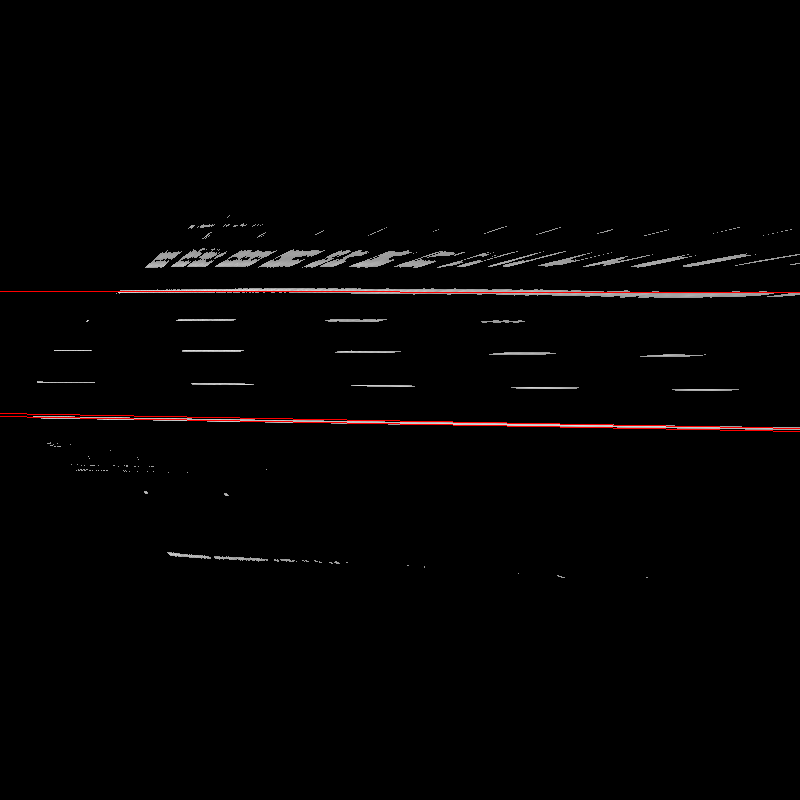
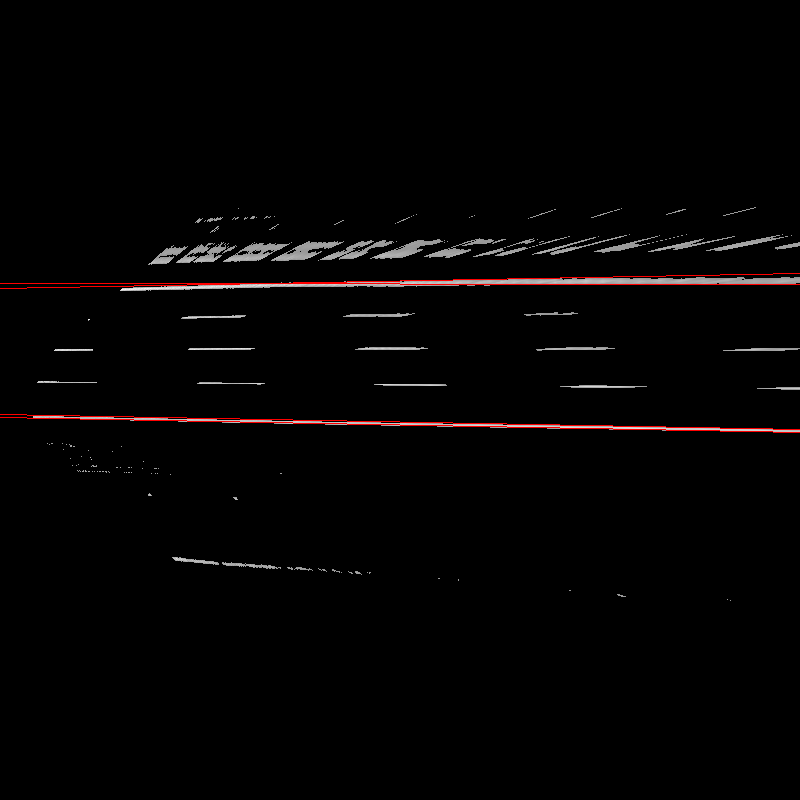
scalable window

diff --git a/ipm.py b/ipm.py
@@ -90,10 +90,18 @@ def get_lines():
         cv2.line(threshold_filter_gray, (x1, y1), (x2, y2), (0, 0, 255), 1)
         m.add((y2 - y1)/(x2-x1))
 
+    
+    cv2.namedWindow('image', cv2.WINDOW_NORMAL)
+    aaa = cv2.resize(threshold_filter_gray, (800, 800))
+    cv2.imshow('image', aaa)
+    cv2.imwrite('lines.png', aaa)    
+    
+    '''
     cv2.namedWindow("image", cv2.WND_PROP_FULLSCREEN)
     cv2.setWindowProperty("image",cv2.WND_PROP_FULLSCREEN,cv2.WINDOW_FULLSCREEN)
     cv2.imshow('image', threshold_filter_gray)
     cv2.imwrite('lines.png', threshold_filter_gray)
+    '''
     print(m)
     k = cv2.waitKey(0)
     return m
@@ -108,9 +116,9 @@ if __name__ == '__main__':
     while True:
         print("pitch: " + str(pitch))
         warp(pitch)
-        sleep(0.1)
+        #sleep(0.1)
         filter_out_dark_pixels()
-        sleep(0.1)
+        #sleep(0.1)
         m = get_lines()        
         #m.remove("")        
         print(m)
@@ -131,4 +139,3 @@ if __name__ == '__main__':
         a_file.close()      
 
         sleep(0.1)
-        
